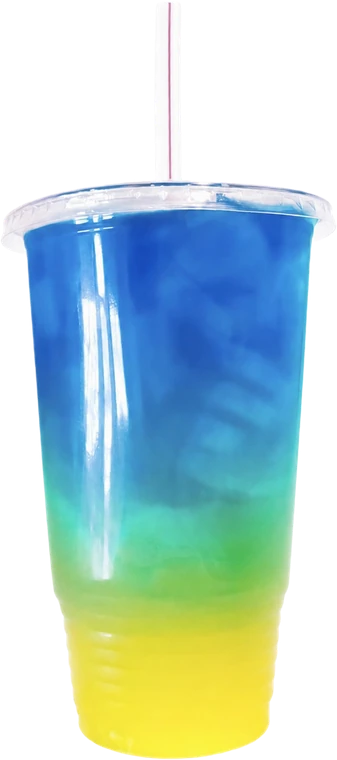
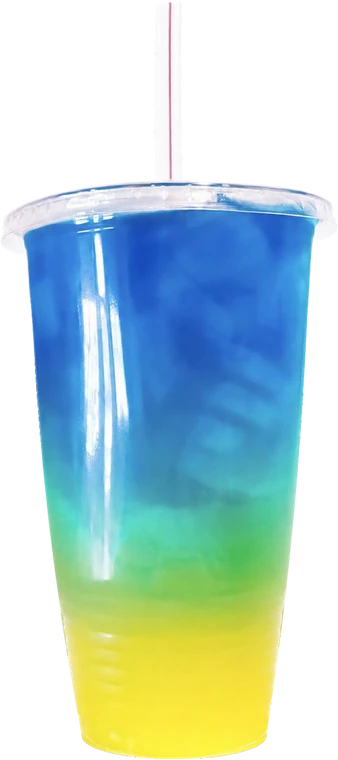
Smooth the Rainbow and Sunset cup outlines
The cups step inward where the ribbed base starts, and once matted and stood upright
that step read as a dent on the side of the Rainbow cup. Rebuild the outline below the
lid: sides fitted as smooth curves to the real edge and blended in so the join under the
lid has no step, and a rounded base tangent to them. Sides now move at most 1 px per
row. Everything inside the cup is untouched.

diff --git a/index.html b/index.html
@@ -17,7 +17,7 @@
 <link rel="preconnect" href="https://fonts.gstatic.com" crossorigin>
 <link href="https://fonts.googleapis.com/css2?family=Anton&family=Bebas+Neue&family=Archivo+Black&family=Caveat:wght@600;700&family=Manrope:wght@400;500;600;700&family=Space+Mono:wght@400;700&display=swap" rel="stylesheet">
 <link rel="preload" as="image" href="img/01-cup.webp">
-<link rel="stylesheet" href="css/site.css?v=202609161032">
+<link rel="stylesheet" href="css/site.css?v=202609161053">
 </head>
 <body>
 
@@ -291,10 +291,10 @@
   </div>
 </footer>
 
-<script src="js/vendor/gsap.min.js?v=202609161032"></script>
-<script src="js/vendor/ScrollTrigger.min.js?v=202609161032"></script>
-<script src="js/vendor/lenis.min.js?v=202609161032"></script>
-<script src="js/manifest.js?v=202609161032"></script>
-<script src="js/loadout.js?v=202609161032"></script>
+<script src="js/vendor/gsap.min.js?v=202609161053"></script>
+<script src="js/vendor/ScrollTrigger.min.js?v=202609161053"></script>
+<script src="js/vendor/lenis.min.js?v=202609161053"></script>
+<script src="js/manifest.js?v=202609161053"></script>
+<script src="js/loadout.js?v=202609161053"></script>
 </body>
 </html>
